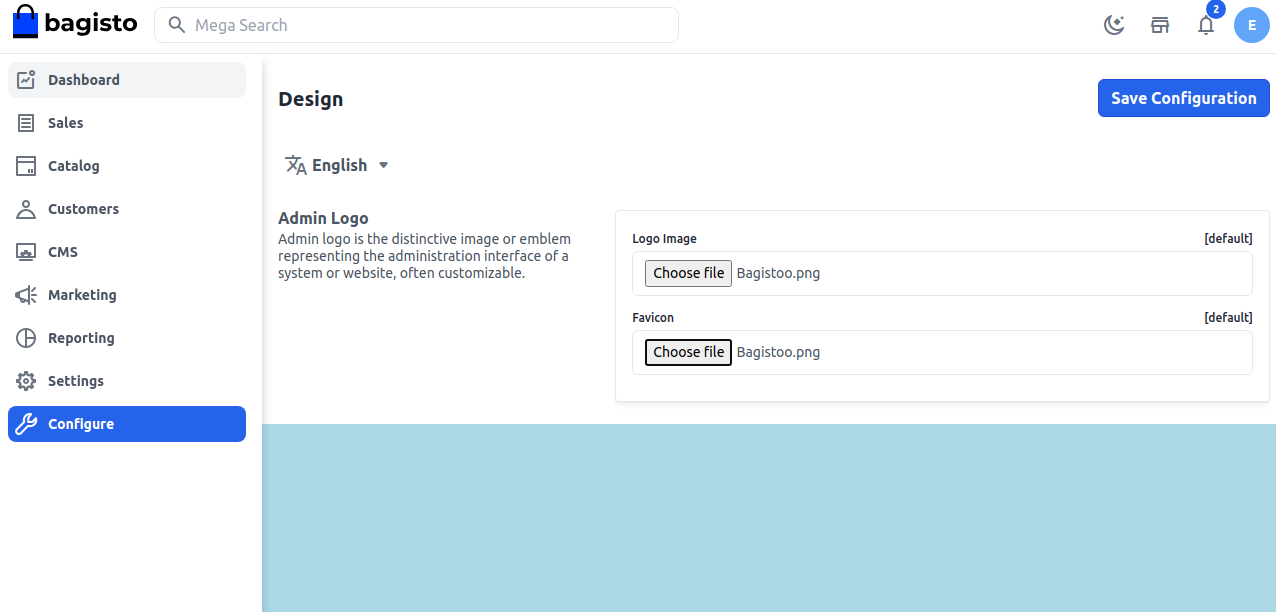
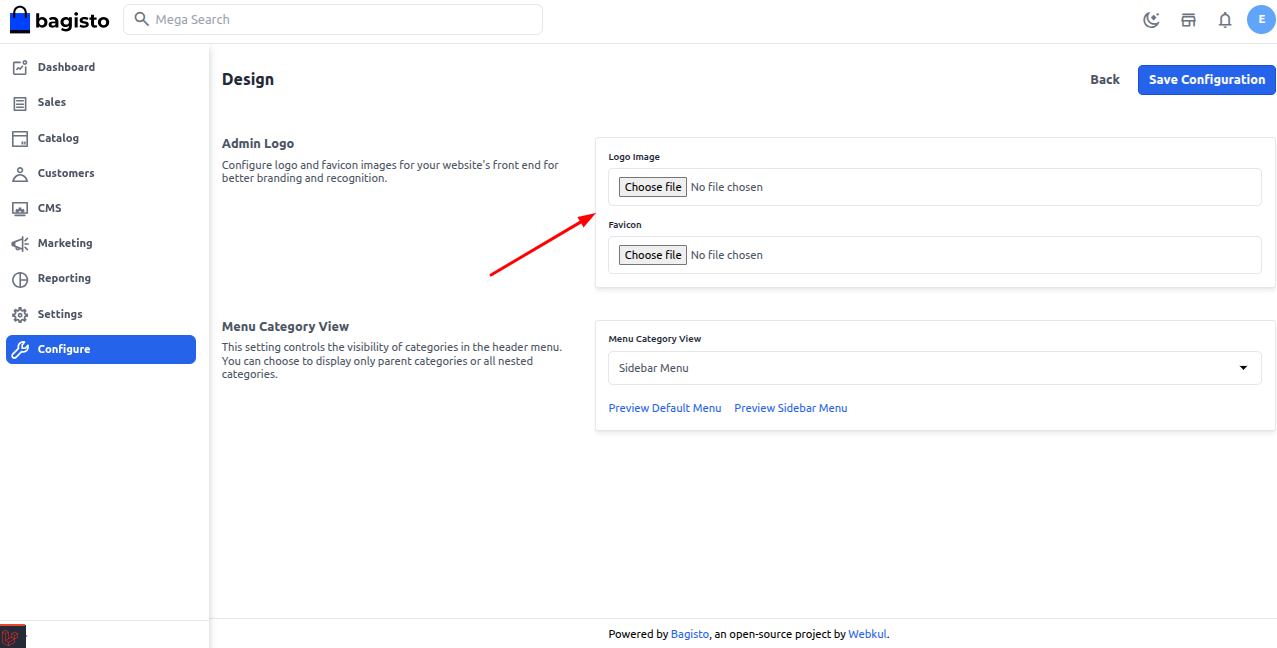
docs: added content section documentation for Bagisto v2.3.x

diff --git a/docs/.vuepress/version-configs/2.3.0.js b/docs/.vuepress/version-configs/2.3.0.js
@@ -115,6 +115,7 @@ module.exports = [
       ["configure/weight-unit", "Weight Unit"],
       ["configure/configurable-choices", "Configurable Choices"],
       ["configure/custom-scripts", "Custom Script"],
+      ["configure/content", "Content"],
       ["configure/design", "Design"],
       ["configure/back-orders", "Back Orders"],
       ["configure/guest-checkout", "Guest Checkout"],

diff --git a/docs/2.3.0/configure/design.md b/docs/2.3.0/configure/design.md
@@ -1,11 +1,50 @@
-# Design
+## Design
 
-Admin logo is the distinctive image or emblem representing the administration interface of a system or website, often customizable.
+**Admin Logo & Favicon Configuration**
 
-To add **Designs** like **Admin logo, Favicon** go to the Admin Panel and click on **Configure >> Design** and you can easily update a new logo image and favicon from here. Click on the **Choose Files** option to select an image last click on the **Save Configuration** button.
+The **Admin Logo** is a distinctive image or emblem representing the administration interface of a system or website. It is often customizable to match your brand identity. Similarly, the **Favicon** is the small icon displayed in browser tabs, helping users visually identify your site.
+
+**Steps to Update Admin Logo & Favicon**
+
+To update the **Admin Logo** and **Favicon** in Bagisto:
+
+1. Go to the **Admin Panel**.
+2. Navigate to **Configure → Design**.
+3. Under the **Design** section, you will find options to upload a new **Admin Logo** and **Favicon**.
+4. Click on the **Choose Files** button to select the desired image files from your system.
+5. Once selected, click the **Save Configuration** button to apply the changes.
+
+**Design Configuration Interface**
 
 ![Design](../../assets/2.3.0/images/configure/design.png)
 
-The new **Admin Logo** and **Favicon** images are updated.
+**Updated Logo & Favicon Output**
+
+After saving the configuration, the new **Admin Logo** and **Favicon** will be visible in the admin panel interface.
 
 ![Design Output](../../assets/2.3.0/images/configure/designOutput.png)
+
+
+**Menu Category View**, Bagisto v2.3.x introduced a new option to configure how product categories are displayed in the storefront menu.
+
+You can now choose between:
+
+- **Default Menu**: Displays categories in the top navigation bar.
+- **Sidebar Menu**: Displays categories in a vertical side panel, ideal for stores with many categories or subcategories.
+
+### To update the Menu Category View:
+
+1. Navigate to **Admin Panel** → **Configure** → **Design**.
+2. Scroll down to the **Header Settings** section.
+3. Under **Category Menu View**, select:
+   - `Default Menu` or
+   - `Sidebar Menu` from the dropdown.
+4. Click **Save Configuration**.
+
+![Menu Category View Setting](../../assets/2.3.0/images/configure/catAdmin.png)
+
+**Shop front view**
+
+![Menu Category View Setting](../../assets/2.3.0/images/configure/catSide.png)
+
+---

diff --git a/docs/2.3.0/configure/content.md b/docs/2.3.0/configure/content.md
@@ -1,0 +1,76 @@
+## Content Configuration
+
+The **Content** section allows you to customize frontend behavior, promotional banners, and control advanced features like speculation rules and custom scripts. These settings help optimize user experience and tailor the storefront according to specific business needs.
+
+**Steps to Configure Content Settings**
+
+To update the **Content** configuration in Bagisto:
+
+1. Log in to the **Admin Panel**.
+2. Navigate to **Configure → Content**.
+3. You will find the following options to configure:
+
+---
+
+**Header Offer Title**
+
+Display a promotional banner on the storefront header.
+
+- **Offer Title**  
+  Example: `Get UPTO 40% OFF on your 1st order`
+
+- **Redirection Title**  
+  Example: `SHOP NOW`
+
+- **Redirection Link**  
+  Enter a valid URL (e.g., `/products/sale`)
+
+  ![Content](../../assets/2.3.0/images/configure/Header.png)
+
+---
+
+**Speculation Rules**
+
+These rules improve perceived performance by prefetching or prerendering pages intelligently.
+
+- **Enable Speculation Rules**  
+  Toggle to enable the overall speculation logic.
+
+- **Enable Prerender Speculation Rules**  
+  Enables prerendering based on user behavior predictions.
+
+- **Ignore Prerender URLs**  
+  Exclude specific routes from prerendering using pipe `|` as a separator.  
+  Example: `account|checkout|onepage|cart`
+
+- **Ignore Prerender URL Parameters**  
+  Exclude certain URL parameters from prerender logic.  
+  Example: `ref|token`
+
+- **Prerender Eagerness Level**  
+  Choose the intensity of prerendering:
+  - `eager`: Max prerendering (more resources)
+  - `moderate`: Default balance
+  - `conservative`: Minimal prerendering
+
+- **Enable Prefetch Speculation Rules**  
+  Enables link prefetching to accelerate navigation.
+
+![Content](../../assets/2.3.0/images/configure/Speculation.png)
+
+---
+
+**Custom Scripts**
+
+Add your own scripts to enhance or integrate custom features.
+
+- **Custom CSS**  
+  Add global CSS to style your storefront.
+
+- **Custom JavaScript**  
+  Insert scripts for chat widgets, analytics, or any custom interaction.
+
+
+![Content](../../assets/2.3.0/images/configure/CustomScript.png)
+
+---
